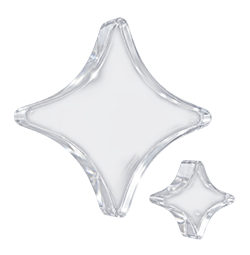
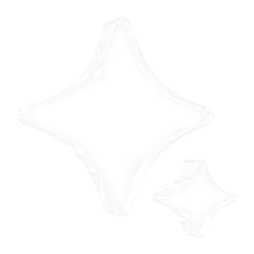
Rebuild the sparkle from the relit source, and make the rebuild a script
The source art was replaced again — near-white now (body luma median 253, was
149) and much more transparent (alpha median 60, was 129), so it reads as
frosted glass rather than the tinted glass before it.

Since this file has now changed twice, the recipe moves out of my shell and
into scripts/prep-sparkle-glow.py, next to prep-journey-covers.py. Rerun it
after any swap; it reframes the art to 444px inside a 736px canvas so the
layout cannot drift, and bakes the two glow passes.

Glow is unchanged, because it derives from the silhouette rather than the
pixels: +19.5 luma at its brightest on the brand green, +13.5 at p95.

One thing worth recording about this art: its body sits at 1.28:1 against the
green, so the glow is now doing most of the work of separating the mark from
the field rather than merely flattering it. Noted in the component so nobody
removes it as decoration.

Changed region(s): [[0.056, 0.0551, 0.868, 0.8543], [0.588, 0.6063, 0.952, 0.937]]

diff --git a/src/CreateYourOwnScene.tsx b/src/CreateYourOwnScene.tsx
@@ -149,17 +149,20 @@ export const CreateYourOwnScene: React.FC<CreateYourOwnSceneProps> = ({
                   wrong tool regardless — this scene's field is the TENANT's colour, so
                   whatever it produced changed with every customer.
 
-                  hq_sparkle_glow.png is hq-sparkle-NEW.png re-laid onto the frame the
-                  previous asset used (art 444px centred in 736px) so the swap changes the
-                  picture and not the layout, plus a two-pass white glow — Gaussian sigma 46
-                  at 0.30 and sigma 24 at 0.55 — which is the headline's own
-                  `0 0 25px / 0 0 50px` white text-shadow converted into this asset's pixel
-                  space. Measured on the brand green it lifts the field +19.7 luma at its
-                  brightest and +12.5 at p95: a halo you can see without one you can name.
+                  hq_sparkle_glow.png is built from hq-sparkle-NEW.png by
+                  scripts/prep-sparkle-glow.py — rerun it whenever the source art changes.
+                  It re-lays the art onto the frame the previous asset used (444px centred
+                  in 736px) so a swap changes the picture and not the layout, then bakes a
+                  two-pass white glow, sigma 46 at 0.30 and sigma 24 at 0.55, which is this
+                  headline's own `0 0 25px / 0 0 50px` white text-shadow converted into the
+                  asset's pixel space. On the brand green it lifts the field +19.5 luma at
+                  its brightest and +13.5 at p95.
 
-                  The art is clear glass rather than the old dark navy body, so the brand
-                  colour reads THROUGH it. That is what makes it work on any tenant — it
-                  takes the field's own hue instead of fighting it. */}
+                  The art is frosted glass, so the brand colour reads THROUGH it — that is
+                  what makes it work on any tenant, since it takes the field's own hue
+                  instead of fighting it. Worth knowing the trade: its body sits at 1.28:1
+                  against this green, so the glow is not decoration, it is most of what
+                  separates the mark from the field. Keep it if the art is ever relit. */}
               <Img
                 src={staticFile(icon)}
                 style={{

diff --git a/scripts/prep-sparkle-glow.py b/scripts/prep-sparkle-glow.py
@@ -1,0 +1,81 @@
+#!/usr/bin/env python3
+"""
+Build the sparkle that sits beside "AI Widget Builder" at global 3058-3109
+(src/WorkvivoCut.tsx -> CreateYourOwnScene).
+
+Two jobs, both of which have to happen offline rather than in CSS.
+
+1. Reframe. The supplied art fills almost its whole canvas, where the asset it
+   replaced filled 60% of a 736px frame. The scene sizes the icon with
+   `objectFit: contain`, which fits the FRAME and not the art, so dropping a
+   tightly-cropped file straight in renders it about half again too big. Placing
+   the art at ART px inside a CANVAS px frame keeps the swap to a picture change.
+
+2. Glow. Every CSS way of drawing one is dropped or damaged by the browser
+   export: `mix-blend-mode` is not composited, `radial-gradient` does not paint
+   at all, and `filter: drop-shadow` is not scoped to the element that sets it —
+   it stays on the canvas and bleeds onto whatever is drawn next. Baked pixels
+   are the one form that renders identically in Chromium and in the web renderer.
+
+   The two passes are the headline's own `0 0 25px / 0 0 50px` white text-shadow
+   converted into this asset's pixel space, so the mark and the words beside it
+   are lit the same way. The icon draws ~315px tall from a 736px file, so a CSS
+   blur radius r (sigma r/2) becomes sigma r/2 * 736/315.
+
+Run it again whenever the source art is replaced:
+
+    python3 scripts/prep-sparkle-glow.py
+
+Requires Pillow (dev-only; not a runtime dependency of the video).
+"""
+
+import os
+from PIL import Image, ImageFilter
+
+ROOT = os.path.dirname(os.path.dirname(os.path.abspath(__file__)))
+SRC = os.path.join(ROOT, "public", "img", "hq-sparkle-NEW.png")
+OUT = os.path.join(ROOT, "public", "img", "hq_sparkle_glow.png")
+
+# Frame and art size of the asset this replaced, kept so the swap is layout-neutral.
+CANVAS = 736
+ART = 444
+
+# (sigma, peak alpha) — wide and faint first, then tight and brighter over it.
+GLOW = [(46, 0.30), (24, 0.55)]
+
+# Anything below this alpha is treated as empty when finding the art's bounds.
+ART_FLOOR = 25
+
+
+def main() -> None:
+    src = Image.open(SRC).convert("RGBA")
+
+    # Trim to the art itself, then scale its LONG side to ART so a non-square
+    # source keeps its aspect instead of being stretched to the frame.
+    bbox = src.split()[3].point(lambda a: 255 if a > ART_FLOOR else 0).getbbox()
+    art = src.crop(bbox)
+    w, h = art.size
+    scale = ART / max(w, h)
+    art = art.resize((round(w * scale), round(h * scale)), Image.LANCZOS)
+
+    placed = Image.new("RGBA", (CANVAS, CANVAS), (0, 0, 0, 0))
+    placed.paste(art, ((CANVAS - art.size[0]) // 2, (CANVAS - art.size[1]) // 2))
+
+    # The glow is the art's own silhouette, blurred — so it follows the shape
+    # rather than the box, which is what a box-shadow would have given us.
+    alpha = placed.split()[3]
+    out = Image.new("RGBA", (CANVAS, CANVAS), (0, 0, 0, 0))
+    for sigma, peak in GLOW:
+        layer = Image.new("RGBA", (CANVAS, CANVAS), (255, 255, 255, 0))
+        layer.putalpha(alpha.filter(ImageFilter.GaussianBlur(sigma)).point(
+            lambda v, p=peak: int(v * p)
+        ))
+        out = Image.alpha_composite(out, layer)
+    out = Image.alpha_composite(out, placed)
+
+    out.save(OUT)
+    print(f"  wrote {os.path.relpath(OUT, ROOT)}  {out.size}  art {art.size}")
+
+
+if __name__ == "__main__":
+    main()
